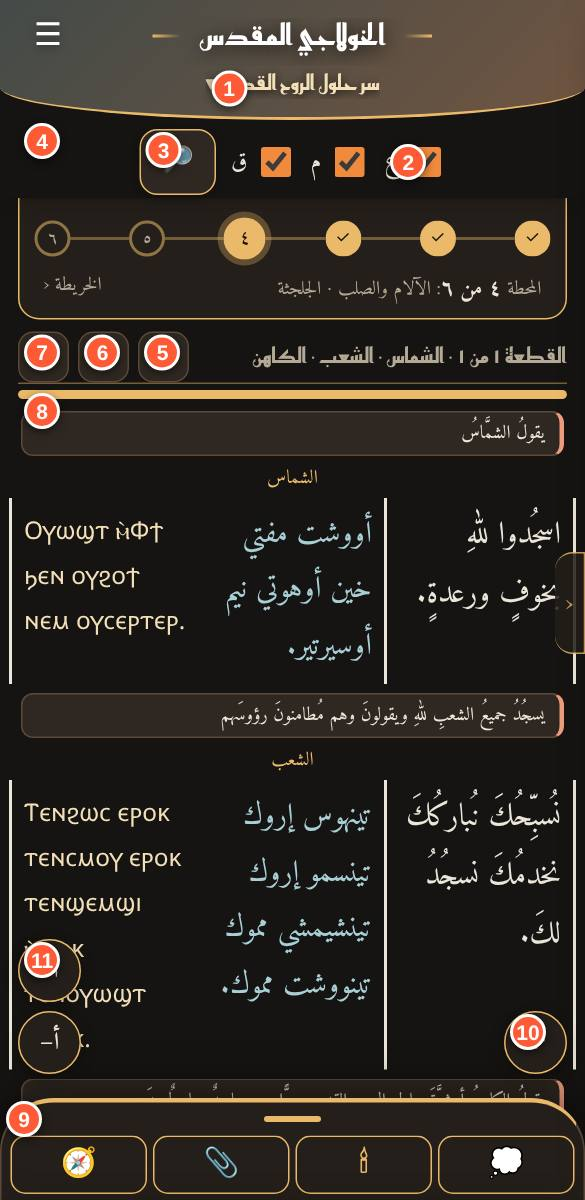
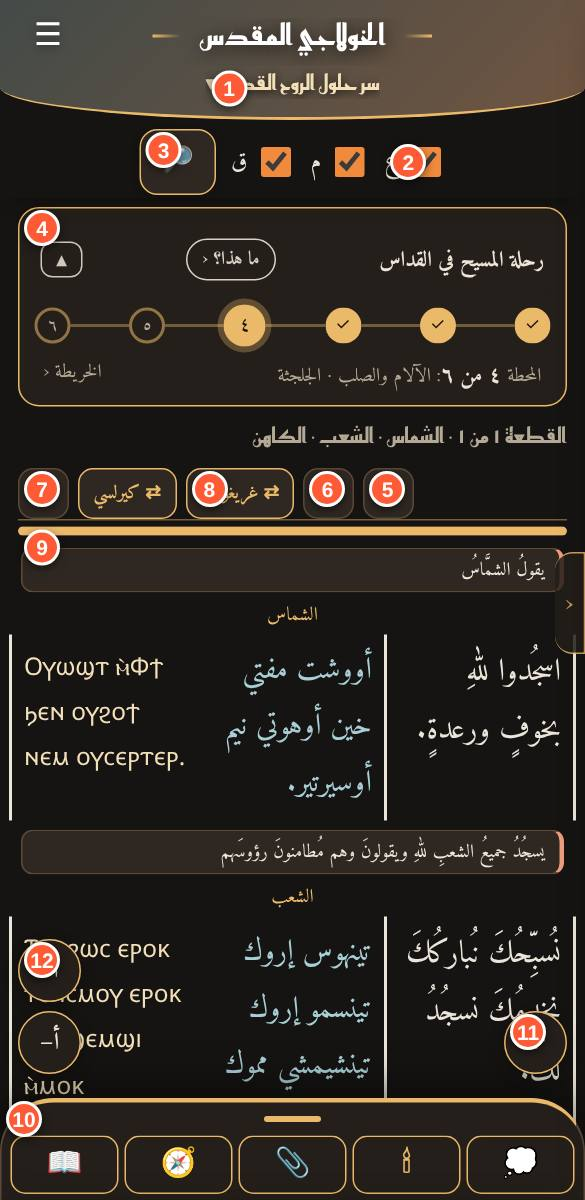
زرّان للانتقال إلى القداسين الآخرين، واختيار صلاة الصلح الأولى/الثانية من داخل القسم (r139)
Claude-Session: https://claude.ai/code/session_01TxsQH8W41ZBNhnMhe9bVaK

diff --git a/index.html b/index.html
@@ -764,7 +764,8 @@ html.ix-open #dxfab,html.ix-open #qfs{display:none!important}
 :root:root .wh{font-family:var(--ff-wh,"Tajawal","Cairo",sans-serif)}
 .ffr{display:grid;grid-template-columns:7.5em 1fr;gap:4px 10px;align-items:center;margin:8px 0}.ffr span{font-size:.9rem;color:var(--mute)}.ffr select{padding:8px;border:1.5px solid var(--line);border-radius:10px;background:var(--card2);color:var(--ink);font-family:inherit}.ffr em{grid-column:1/-1;font-style:normal;font-size:1.1rem;opacity:.9}
 .syb{color:var(--acc);font-weight:700}
-.unh .unhb{gap:6px}.unh .unhb button{height:34px;min-width:34px;padding:0 9px;font-size:1rem;border:1px solid var(--line);border-radius:10px;background:var(--card2);color:var(--ink);display:inline-flex;align-items:center;justify-content:center;gap:4px}.unh .unhb .whb{width:34px;padding:0;font-size:1rem}.unh .unhb .syb{font-size:.78rem;font-weight:700;color:var(--acc);border-color:var(--acc)}
+.unh .unhb{gap:6px}.unh .unhb button{height:34px;min-width:34px;padding:0 9px;font-size:1rem;border:1px solid var(--line);border-radius:10px;background:var(--card2);color:var(--ink);display:inline-flex;align-items:center;justify-content:center;gap:4px}.unh .unhb .whb{width:34px;padding:0;font-size:1rem}/*x*/.unh .unhb .syb{font-size:.78rem;font-weight:700;color:var(--acc);border-color:var(--acc)}
+.unh{flex-wrap:wrap}.unh .unhb{margin-inline-start:auto}.unh .unhb .syb.off{opacity:.45;border-color:var(--line);color:var(--mute)}.pch{display:flex;align-items:center;gap:6px;margin:6px 12px 0;font-size:.82rem;color:var(--mute)}.pch button{padding:3px 14px;border-radius:999px;border:1.5px solid var(--acc);color:var(--acc);background:transparent;font:inherit;font-size:.82rem}.pch button.on{background:var(--acc);color:var(--onacc,#fff)}
 </style>
 </head>
 <body>
@@ -932,8 +933,8 @@ function plain(t){return String(t).replace(/<[^>]*>/g,"").replace(/\[\^\d+\]/g,"
 function unitParts(id,s,c,us,u,q,cols){
   var U=us[u],n=us.length,isDox=s.group.id==="dox",st={alt:0,dr:S.ex==="drawer"},pct=Math.round((u+1)/n*100);
   var si=(S.story!==false&&window.KST)?storyIdx(id):-1,few=U.med.length<=2;
-  var syn=window.KS?KS.syncNext(id,u):null,syb=syn?'<button data-syncj="1" class="syb" aria-label="انتقل إلى المقابل في القداس '+KS.lshort[syn.lit]+'" title="اضغط للانتقال، واضغط مطولا لكل المقابلات">⇄ '+KS.lshort[syn.lit]+'</button>':'';
-  var inner=(si>=0?stripHtml(si):'')+'<div class="unh"><span>القطعة '+ar9(u+1)+' من '+ar9(n)+(U.who?' · '+esc(U.who):'')+'</span><span class="unhb"><button data-whc="1" class="whb'+(S.wh!=="off"?' on':'')+'" aria-label="همسات الصلاة">🕊</button><button data-live="1" aria-label="وضع الكنيسة">🕯</button>'+syb+'<button data-uidx="1" aria-label="فهرس القطع" title="فهرس القطع">☰</button></span></div><div class="unb"><i style="width:'+pct+'%"></i></div>';
+  var syo=window.KS?KS.syncOthers(id):null,syb=syo?syo.map(function(x){return x.id?'<button data-syncgo="'+x.id+'" data-sl="'+x.lit+'" class="syb" aria-label="انتقل إلى '+KS.lname[x.lit]+'" title="'+esc(x.title)+' — اضغط مطولا لكل المقابلات">⇄ '+KS.lshort[x.lit]+'</button>':'<button class="syb off" disabled aria-label="لا مقابل في '+KS.lname[x.lit]+'">⇄ '+KS.lshort[x.lit]+'</button>'}).join(""):'';
+  var inner=(si>=0?stripHtml(si):'')+'<div class="unh"><span>القطعة '+ar9(u+1)+' من '+ar9(n)+(U.who?' · '+esc(U.who):'')+'</span><span class="unhb"><button data-whc="1" class="whb'+(S.wh!=="off"?' on':'')+'" aria-label="همسات الصلاة">🕊</button><button data-live="1" aria-label="وضع الكنيسة">🕯</button>'+syb+'<button data-uidx="1" aria-label="فهرس القطع" title="فهرس القطع">☰</button></span></div><div class="unb"><i style="width:'+pct+'%"></i></div>'+(window.KS?KS.solhChooser(id,u):'');
   var sheetMed=S.med&&U.med.length&&(S.mp!=="after"||S.ml==="drawer");
   var tabs=[],exs=S.ex==="drawer"?U.items.filter(isExp):[];
   if(sheetMed)tabs.push(["b","💭","تأمل"+(U.med.length>1?" ("+ar9(U.med.length)+")":"")]);
@@ -1344,7 +1345,8 @@ app.addEventListener("click",function(e){
   var lt=e.target.closest("[data-lit]");if(lt){S.lit=lt.getAttribute("data-lit");save();home();return}
   var bn=e.target.closest("[data-bn]");if(bn){var k2=bn.getAttribute("data-bn");if(k2==="home"){OPENHOME=true;if(location.hash==="#/"||location.hash===""||location.hash==="#"){todayView()}else location.hash="#/"}else if(k2==="lit")location.hash="#/lit";else if(k2==="lists")location.hash="#/dxlist";else if(k2==="lib")location.hash="#/lib";else if(k2==="search")openSearch();else if(k2==="map")openIdx();else if(k2==="med")location.hash="#/med";else if(k2==="study"){sheet('<h3>دراسة</h3><div class="list"><button class="sec" data-nav="#/compare"><span>مقارنة بين القداسات الثلاثة</span><span class="pn">‹</span></button><button class="sec" data-nav="#/lex"><span>قاموس القبطي المعرَّب</span><span class="pn">‹</span></button><button class="sec" data-nav="#/g/taqs"><span>دليل طقس القداس</span><span class="pn">‹</span></button><button class="sec" data-nav="#/plan"><span>خطتي</span><span class="pn">‹</span></button></div>')}return}
   var m1=e.target.closest("[data-m1]");if(m1){var b1=m1.nextElementSibling,o1=b1.hasAttribute("hidden");o1?b1.removeAttribute("hidden"):b1.setAttribute("hidden","");m1.setAttribute("aria-expanded",o1);var c1=m1.querySelector(".ch");if(c1)c1.textContent=o1?"▴":"▾";return}
-  if(e.target.closest("[data-syncj]")){if(window.__lp){window.__lp=false;return}var sn2=window.KS&&KS.syncNext(CUR.id,CUR.u);if(sn2){usave(sn2.id,sn2.u||0);PL=false;toast("↔ "+KS.lname[sn2.lit]+(sn2.p?" · صلاة الصلح "+(sn2.p===2?"الثانية":"الأولى"):""));location.hash="#/s/"+sn2.id}return}
+  var sgo=e.target.closest("[data-syncgo]");if(sgo){if(window.__lp){window.__lp=false;return}var gid=sgo.getAttribute("data-syncgo"),gl=+sgo.getAttribute("data-sl");if(BYID[gid]){usave(gid,0);PL=false;toast("↔ "+KS.lname[gl]+" · "+BYID[gid].title);location.hash="#/s/"+gid}return}
+  var pr=e.target.closest("[data-pr]");if(pr&&window.KS){var pt=KS.solhGo(CUR.id,+pr.getAttribute("data-pr"));if(pt&&BYID[pt.id]){if(pt.id===CUR.id){if(!setUnit(pt.u))reader(CUR.id,undefined,pt.u)}else{usave(pt.id,0);PL=false;location.hash="#/s/"+pt.id}}return}
   var ex=e.target.closest("[data-exp]");if(ex){var eb=ex.nextElementSibling,eo=eb.hasAttribute("hidden");eo?eb.removeAttribute("hidden"):eb.setAttribute("hidden","");ex.setAttribute("aria-expanded",eo);ex.querySelector(".exc").textContent=eo?"▴":"▾";return}
   var wh=e.target.closest("[data-wh]");if(wh){var b2=wh.nextElementSibling,o2=b2.hasAttribute("hidden");o2?b2.removeAttribute("hidden"):b2.setAttribute("hidden","");wh.setAttribute("aria-expanded",o2);wh.firstChild.textContent="🕊 همسة "+(o2?"▴":"▾");return}
   var whc=e.target.closest("[data-whc]");if(whc){var ord=["off","strip","open","drawer"],nx=ord[(ord.indexOf(S.wh)+1)%4];S.wh=nx;save();toast("همسات الصلاة: "+({off:"مخفية",strip:"مطوية",open:"مفتوحة",drawer:"في الدرج السفلي"})[nx]);route();return}
@@ -1498,9 +1500,9 @@ document.addEventListener("change",function(e){var t=e.target;if(t&&t.getAttribu
 document.addEventListener("input",function(e){if(e.target&&e.target.id==="ixq"){IXQ=e.target.value;var l=document.getElementById("ixl");if(l)l.innerHTML=idxList()}});
 document.addEventListener("keydown",function(e){if(e.key==="Escape")closeIdx()});
 (function(){var tm=null;function clr(){if(tm){clearTimeout(tm);tm=null}}
-  document.addEventListener("pointerdown",function(e){var b=e.target.closest&&e.target.closest("[data-syncj]");if(!b)return;window.__lp=false;clr();tm=setTimeout(function(){tm=null;window.__lp=true;var h=window.KS&&KS.sync(CUR.id);if(h)sheet(h)},550)});
+  document.addEventListener("pointerdown",function(e){var b=e.target.closest&&e.target.closest("[data-syncgo]");if(!b)return;window.__lp=false;clr();tm=setTimeout(function(){tm=null;window.__lp=true;var h=window.KS&&KS.sync(CUR.id);if(h)sheet(h)},550)});
   ["pointerup","pointercancel","pointerleave","scroll"].forEach(function(t){document.addEventListener(t,clr,true)});
-  document.addEventListener("contextmenu",function(e){if(e.target.closest&&e.target.closest("[data-syncj]"))e.preventDefault()})})();
+  document.addEventListener("contextmenu",function(e){if(e.target.closest&&e.target.closest("[data-syncgo]"))e.preventDefault()})})();
 /* سحب من حافة اليمين لفتح الفهرس، وسحب لليمين على اللوحة لإغلاقها */
 (function(){
   var st=null,P={passive:true};

diff --git a/tools/make-guide.js b/tools/make-guide.js
@@ -21,7 +21,7 @@ const SPECS=[
 {id:'pre',title:'قبل القداس',hash:'#/pre',summary:'أربع خطوات قصيرة تجهّز بها قبل أن تبدأ.',
  marks:[['.chk@0','١. القداس','اختر الذي ستصليه.'],['.chk@1','٢. قائمتك','القائمة الحالية وعدد أقسامها. «فتح قوائمي» لتعديلها.'],['.chk@2','٣. اقتراحات اليوم','ذكصولوجيات تناسب تاريخ اليوم. ＋ لإضافتها.'],['.chk@3','٤. حجم الخط','اضبطه الآن ليبقى ثابتا طوال القداس.'],['[data-dmgo="lit"]','ابدأ القداس','يبدأ وضع الشماس من آخر مكان أو أول القداس.'],['[data-dmgo="list"]','ابدأ قائمتي','يبدأ القراءة من أول قسم في قائمتك ويتنقّل بترتيبها.']]},
 {id:'reader',title:'القراءة',hash:'#/s/bas-hulul',summary:'شاشة قراءة أي قسم: نص بثلاثة أعمدة (قبطي، معرَّب، عربي) مع إرشادات الطقس.',
- marks:[['#bsub','اسم القسم ▾','اضغط عليه لتنتقل بسرعة لأي قسم آخر.'],['#opts label:nth-of-type(1)','ع · م · ق','تظهر أو تخفي الأعمدة: العربي، المعرَّب، القبطي.'],['#btnSearch','بحث','يبحث في كل نصوص البرنامج.'],['.sts','رحلة المسيح','المحطة التي تقابل هذا الجزء من القداس (تفصيلها في صفحتها).'],['.unh [data-whc]','🕊 همسة','يظهر أو يخفي همسة صلاة قصيرة من وحي القطعة.'],['.unh [data-live]','🕯 وضع الكنيسة','نص كبير داكن للقراءة داخل الكنيسة.'],['.unh [data-uidx]','فهرس','قائمة قطع هذا القسم للانتقال لأي قطعة.'],['.unh .syb','⇄ المقابل','ضغطة واحدة تنقلك إلى مقابل هذا الجزء في القداس التالي (اسمه على الزر)، وضغطة مطوّلة تفتح كل المقابلات. صلاة الصلح الأولى تقابل الأولى والثانية تقابل الثانية.'],['.unb','شريط التقدم','نسبة ما قرأته في هذا القسم.'],['.unp .rub, .rub','إرشاد (أحمر)','حركات الكاهن والشعب وما يقال.'],['#dsheet','الدرج السفلي','أيقونات فقط: 💭 تأمل، 📝 شروحات، 🕯 إرشادات، 📎 هوامش، 🧭 المحطة، 📖 دليل. يُفتح بالسحب لأعلى فقط (الضغط عليه وهو مغلق لا يفتحه)، ولأسفل ليُغلق؛ وبعد فتحه اضغط أيقونة لتبديل التبويب.'],['#dxfab','＋ / ✓','يضيف القسم لأي قائمة من قوائمك، ويفتح قائمة خياراتها.'],['#qfs','أ+ / أ−','تكبير وتصغير الخط فورا.']],
+ marks:[['#bsub','اسم القسم ▾','اضغط عليه لتنتقل بسرعة لأي قسم آخر.'],['#opts label:nth-of-type(1)','ع · م · ق','تظهر أو تخفي الأعمدة: العربي، المعرَّب، القبطي.'],['#btnSearch','بحث','يبحث في كل نصوص البرنامج.'],['.sts','رحلة المسيح','المحطة التي تقابل هذا الجزء من القداس (تفصيلها في صفحتها).'],['.unh [data-whc]','🕊 همسة','يظهر أو يخفي همسة صلاة قصيرة من وحي القطعة.'],['.unh [data-live]','🕯 وضع الكنيسة','نص كبير داكن للقراءة داخل الكنيسة.'],['.unh [data-uidx]','فهرس','قائمة قطع هذا القسم للانتقال لأي قطعة.'],['.unh .syb','⇄ القداس الآخر','زرّ لكل قداس آخر: ضغطة واحدة تنقلك إلى مقابل هذا القسم هناك، والمطوّلة تفتح كل المقابلات. الباهت يعني لا مقابل.'],['.pch','صلاة الصلح: الأولى · الثانية','في أقسام صلاة الصلح تختار أي صلاة تريد من داخل القسم، بغض النظر عن الصلاة التي كنت فيها في القداس الآخر.'],['.unb','شريط التقدم','نسبة ما قرأته في هذا القسم.'],['.unp .rub, .rub','إرشاد (أحمر)','حركات الكاهن والشعب وما يقال.'],['#dsheet','الدرج السفلي','أيقونات فقط: 💭 تأمل، 📝 شروحات، 🕯 إرشادات، 📎 هوامش، 🧭 المحطة، 📖 دليل. يُفتح بالسحب لأعلى فقط (الضغط عليه وهو مغلق لا يفتحه)، ولأسفل ليُغلق؛ وبعد فتحه اضغط أيقونة لتبديل التبويب.'],['#dxfab','＋ / ✓','يضيف القسم لأي قائمة من قوائمك، ويفتح قائمة خياراتها.'],['#qfs','أ+ / أ−','تكبير وتصغير الخط فورا.']],
  nav:'للانتقال بين الأجزاء: «التالي» في آخر الصفحة، أو اسحب الشاشة، أو افتح الفهرس. هذه الأزرار تظهر هنا فقط.'},
 {id:'sidx',title:'الفهرس الجانبي',hash:'#/s/bas-hulul',setup:async p=>{await open(p,'#idxh')},summary:'يُفتح بالسحب من حافة اليمين. في أعلاه لوحة أزرار ثابتة بشكل مميّز للانتقال السريع بين الأقسام الكبرى، وتحتها الفهرس.',
  marks:[['.ixqj','انتقال سريع','لوحة أزرار ثابتة أعلى الفهرس (لا تُسحب يمينا ويسارا): اضغط أي قسم لتذهب إليه؛ القسم الحالي مضيء.'],['.ixhome','الصفحة الرئيسية','للرجوع لكل الأقسام الكبرى.']]},

diff --git a/study.js b/study.js
@@ -135,14 +135,16 @@ function solhPrayer(id,u){
 function solhTarget(L,p){
   if(L===1)return {id:p===2?"greg-solh2":"greg-solh",u:0};
   var id=L===0?"bas-solh":"cyr-solh";return {id:id,u:p===2?Math.max(0,secondUnit(id)):0}}
-function syncNext(id,u){
-  var l0=litOf(id);if(l0<0)return null;
-  var p=solhPrayer(id,u),tg=null;
-  if(p){var order=[(l0+1)%3,(l0+2)%3];for(var k=0;k<2&&!tg;k++){var t=solhTarget(order[k],p);if(K.BYID[t.id]&&K.BYID[t.id].has)tg={lit:order[k],id:t.id,u:t.u,p:p}}}
-  else{var cand=syncTargets(id).filter(function(x){return x.primary});
-    for(var d=1;d<3&&!tg;d++){var L=(l0+d)%3;for(var q=0;q<cand.length;q++)if(cand[q].lit===L){tg={lit:L,id:cand[q].id,u:0};break}}}
-  if(tg)tg.title=K.BYID[tg.id].title;
-  return tg}
+function syncOthers(id){
+  var l0=litOf(id);if(l0<0)return null;var cand=syncTargets(id).filter(function(x){return x.primary});
+  var out=[];[0,1,2].forEach(function(L){if(L===l0)return;var c=null;for(var q=0;q<cand.length;q++)if(cand[q].lit===L){c=cand[q];break}
+    out.push({lit:L,id:c?c.id:null,title:c?c.title:""})});
+  return out.some(function(x){return x.id})?out:null}
+function solhChooser(id,u){
+  if(["bas-solh","cyr-solh","greg-solh","greg-solh2"].indexOf(id)<0)return"";
+  var p=solhPrayer(id,u);
+  return '<div class="pch"><span>صلاة الصلح:</span><button data-pr="1" class="'+(p===1?'on':'')+'">الأولى</button><button data-pr="2" class="'+(p===2?'on':'')+'">الثانية</button></div>'}
+function solhGo(id,p){var L=litOf(id);return solhTarget(L,p)}
 function syncBar(id){
   var tg=syncTargets(id).filter(function(x){return x.primary&&!x.note});if(!tg.length)return"";
   var b="";tg.forEach(function(x){b+='<button class="lsb" data-u0="1" data-nav="#/s/'+x.id+'">↔ '+LNAME[x.lit]+'</button>'});
@@ -296,5 +298,5 @@ document.addEventListener("click",function(e){
   else if(d==="hide"){var s=S(),h=s.hide||[],i=h.indexOf(t.dataset.g);if(i>-1)h.splice(i,1);else h.push(t.dataset.g);s.hide=h;K.save();K.settings();K.route()}
   else if(d==="export")exportAll();
   else if(d==="install"&&deferred){deferred.prompt();deferred=null;K.close()}});
-window.KS={today:function(){var cd=copticOf(new Date());return {cd:cd,dx:todayDox(cd)}},lex:lexView,linkRefs:linkRefs,guide:guideHtml,rub:rubHtml,home:homeHtml,plan:planView,compare:compare,settings:settingsHtml,apply:applyPrefs,scan:scan,sync:syncSheet,syncNext:syncNext,lshort:LSHORT,lname:LNAME,syncN:function(id){return syncTargets(id).length}};
+window.KS={today:function(){var cd=copticOf(new Date());return {cd:cd,dx:todayDox(cd)}},lex:lexView,linkRefs:linkRefs,guide:guideHtml,rub:rubHtml,home:homeHtml,plan:planView,compare:compare,settings:settingsHtml,apply:applyPrefs,scan:scan,sync:syncSheet,syncOthers:syncOthers,solhChooser:solhChooser,solhGo:solhGo,lshort:LSHORT,lname:LNAME,syncN:function(id){return syncTargets(id).length}};
 })();

diff --git a/guide-news.js b/guide-news.js
@@ -1,6 +1,7 @@
 /* سجل الميزات الجديدة (الأحدث أولا). كل ميزة جديدة تُضاف هنا كمدخل جديد في أعلى القائمة،
    ثم تُحدَّث مواصفة الصفحة المتأثرة في tools/make-guide.js وتُعاد اللقطات (node tools/make-guide.js). */
 window.KG_NEWS=[
+{v:"r139",t:"أنت تختار القداس، وتختار الصلاة من داخله",x:"في رأس القراءة زرّان باسمي القداسين الآخرين («⇄ غريغوري» و«⇄ كيرلسي» مثلا)، كل منهما ينقلك إلى مقابل القسم في ذلك القداس مباشرة بضغطة واحدة (الباهت = لا مقابل). وفي أقسام صلاة الصلح صف «الأولى · الثانية» تختار منه أي صلاة تريد، فتنتقل من الأولى في الباسيلي إلى الثانية في الكيرلسي كما تشاء. والضغط المطوّل على أي زر ينقل يفتح كل المقابلات."},
 {v:"r138",t:"الدرج السفلي يُفتح بالسحب فقط",x:"لم يعد الدرج السفلي يُفتح بالضغط على المقبض أو أيقوناته وهو مغلق؛ يُفتح بسحبه لأعلى، وبعدها تضغط أيقونة لتبديل التبويب، ويُغلق بسحبه لأسفل. أزرار الإشارة داخل النص (شرح ١، تأمل ١، همسة ١) ما زالت تفتحه."},
 {v:"r137",t:"زر المقابل بضغطة واحدة + صلاتا الصلح",x:"زر ⇄ في رأس القراءة ينقلك بضغطة واحدة إلى مقابل الجزء في القداس التالي (باسيلي ← غريغوري ← كيرلسي)، واسمه يبيّن وجهتك، والضغط المطوّل يفتح كل المقابلات. وصلاة الصلح الأولى تقابل الأولى والثانية تقابل الثانية في القداسات الثلاثة. وأزرار الرأس الأربعة (همسة · كنيسة · مقابل · فهرس) رُتّبت بحجم موحّد."},
 {v:"r136",t:"ربط أجزاء الاستعداد والكلمة والأنافورا",x:"زر «⇄ المقابل» صار يربط أيضا الأجزاء المشتركة التي في الكتاب ضمن القداس الباسيلي فقط (الاستعداد والتقدمة والقراءات والإنجيل والأمانة): من الغريغوري والكيرلسي تصل إليها، ومن الباسيلي تصل للجزء الذي يتبعها (الحجاب أو الصلح). وأُضيف ربط افتتاح الأنافورا وجزء التناول."},

diff --git a/sw.js b/sw.js
@@ -1,4 +1,4 @@
-const CACHE_NAME='khulagi-v1.5-shell-r138';
+const CACHE_NAME='khulagi-v1.5-shell-r139';
 const FILES=['./','index.html','guide-news.js','guide-pages.js','guide/doxologies.jpg','guide/library.jpg','guide/lists.jpg','guide/lit.jpg','guide/notes.jpg','guide/post.jpg','guide/pre.jpg','guide/reader.jpg','guide/settings.jpg','guide/sidx.jpg','guide/splash.jpg','guide/story.jpg','guide/today.jpg','reemkufi-arabic-700-normal.woff2','dawn.jpg','data.js','study.js','swipe.js','live.js','story.js','study-data.js','data-bible.js','content-raf.txt','content-bas.txt','content-greg.txt','content-cyr.txt','content-qisam.txt','content-misc.txt','content-bless.txt','content-app.txt','content-taqs.txt','content-dox.txt','manifest.webmanifest','icon-192.png','icon-512.png','amiri-arabic-400-normal.woff2','amiri-arabic-700-normal.woff2','amiri-latin-400-normal.woff2','tajawal-arabic-400.woff2','tajawal-latin-400.woff2','tajawal-arabic-700.woff2','tajawal-latin-700.woff2','cairo-arabic-400-normal.woff2','cairo-arabic-700-normal.woff2','el-messiri-arabic-400-normal.woff2','el-messiri-arabic-700-normal.woff2','lateef-arabic-400-normal.woff2','lateef-arabic-700-normal.woff2','markazi-text-arabic-400-normal.woff2','markazi-text-arabic-700-normal.woff2','noto-naskh-arabic-arabic-400-normal.woff2','noto-naskh-arabic-arabic-700-normal.woff2','reem-kufi-arabic-400-normal.woff2','reem-kufi-arabic-700-normal.woff2','scheherazade-new-arabic-400-normal.woff2','scheherazade-new-arabic-700-normal.woff2','amiri-latin-700-normal.woff2','noto-sans-coptic-coptic-400-normal.woff2','noto-sans-coptic-latin-400-normal.woff2'];
 self.addEventListener('install',e=>{e.waitUntil(caches.open(CACHE_NAME).then(c=>Promise.all(FILES.map(f=>c.add(new Request(f,{cache:'reload'})).catch(()=>{})))).then(()=>self.skipWaiting()))});
 self.addEventListener('activate',e=>{e.waitUntil(caches.keys().then(k=>Promise.all(k.filter(x=>x!==CACHE_NAME).map(x=>caches.delete(x)))).then(()=>self.clients.claim()))});

diff --git a/guide-pages.js b/guide-pages.js
@@ -179,21 +179,26 @@ window.KG_PAGES=[
    ],
    [
     8,
+    "⇄ القداس الآخر",
+    "زرّ لكل قداس آخر: ضغطة واحدة تنقلك إلى مقابل هذا القسم هناك، والمطوّلة تفتح كل المقابلات. الباهت يعني لا مقابل."
+   ],
+   [
+    9,
     "شريط التقدم",
     "نسبة ما قرأته في هذا القسم."
    ],
    [
-    9,
+    10,
     "الدرج السفلي",
     "أيقونات فقط: 💭 تأمل، 📝 شروحات، 🕯 إرشادات، 📎 هوامش، 🧭 المحطة، 📖 دليل. يُفتح بالسحب لأعلى فقط (الضغط عليه وهو مغلق لا يفتحه)، ولأسفل ليُغلق؛ وبعد فتحه اضغط أيقونة لتبديل التبويب."
    ],
    [
-    10,
+    11,
     "＋ / ✓",
     "يضيف القسم لأي قائمة من قوائمك، ويفتح قائمة خياراتها."
    ],
    [
-    11,
+    12,
     "أ+ / أ−",
     "تكبير وتصغير الخط فورا."
    ]
